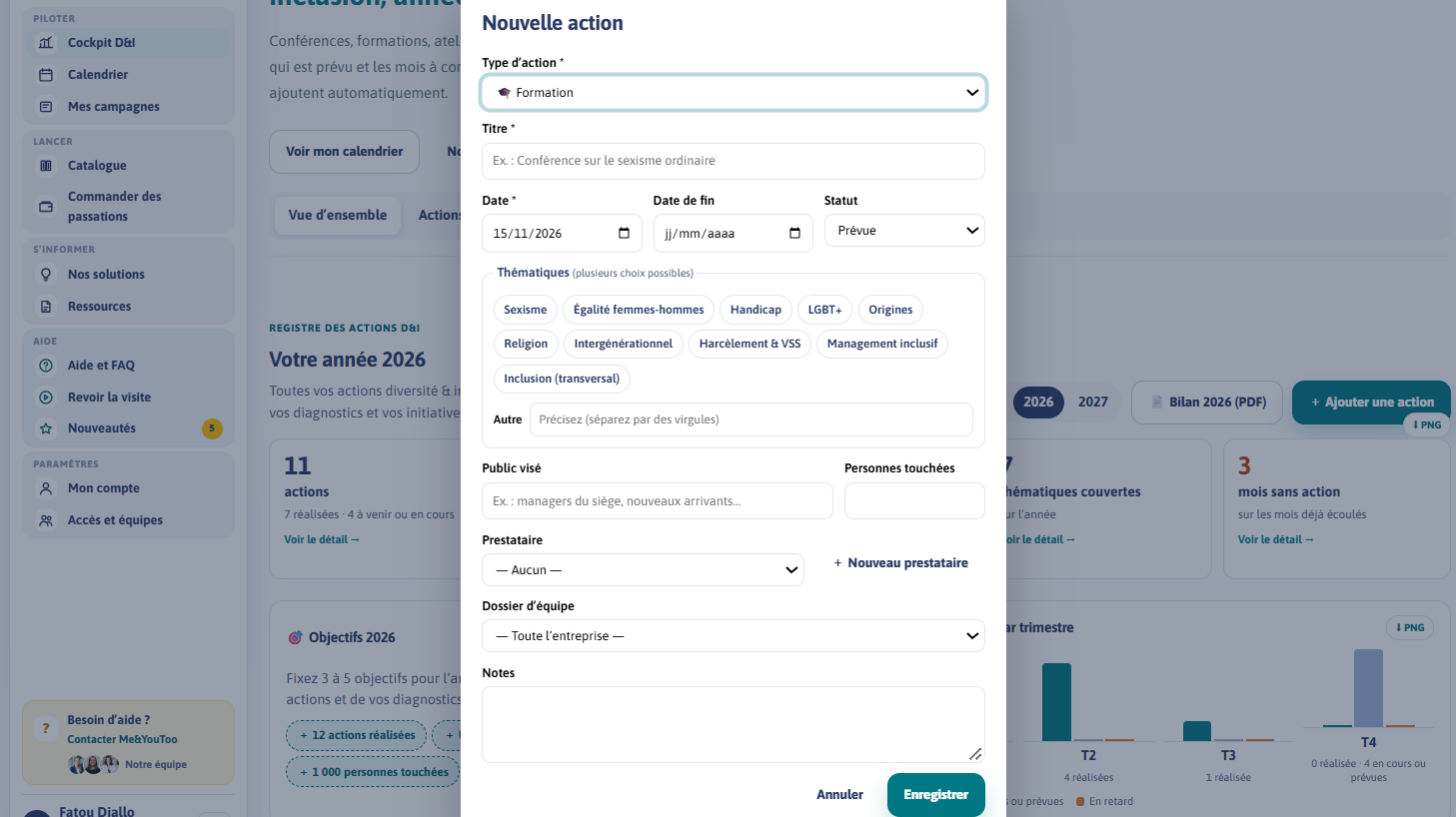
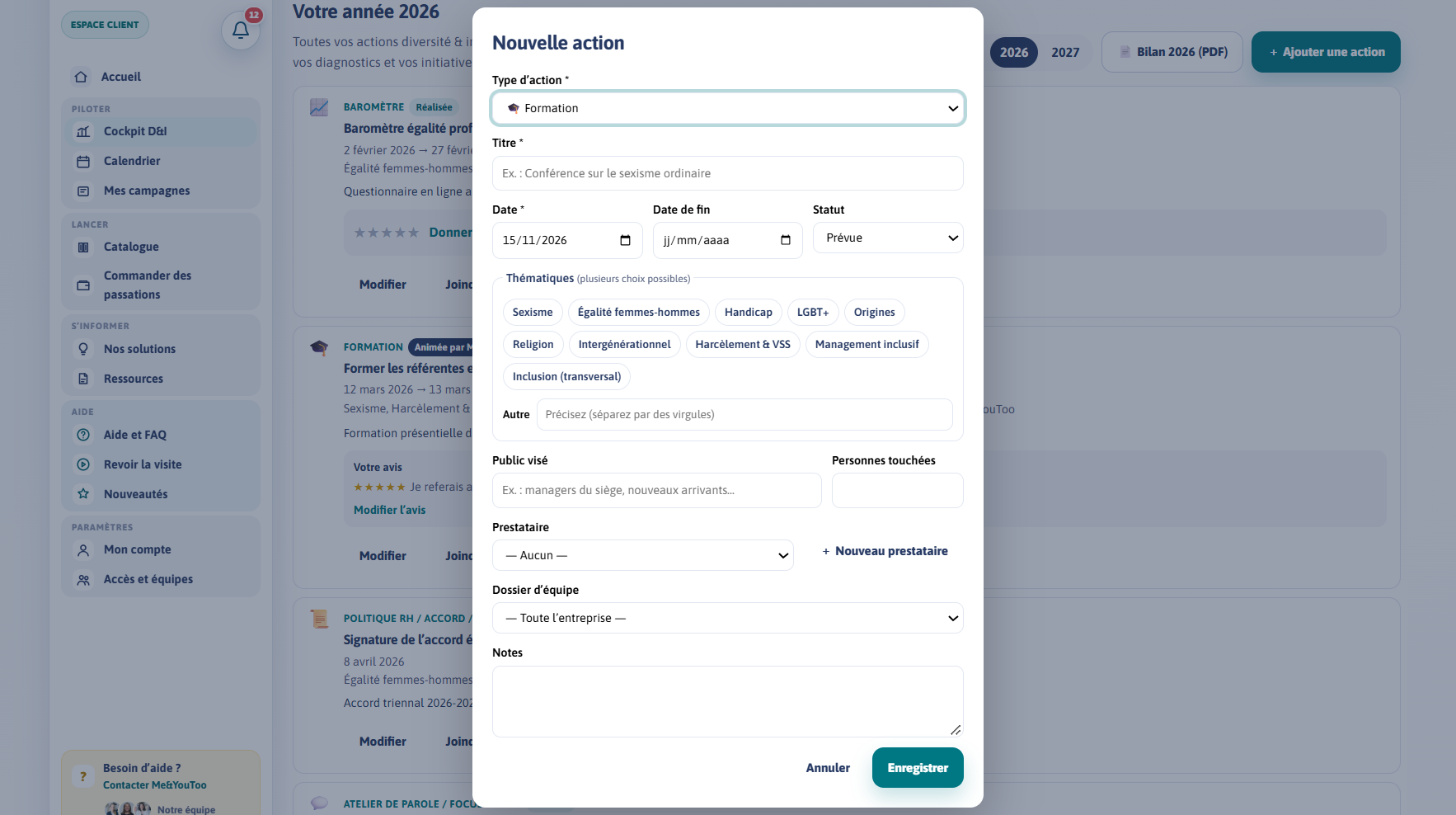
Tuto Cockpit : écrans refaits après le nouveau bandeau et la barre de boutons, cadres recalés, voix inchangée

diff --git a/tutos/cockpit/index.html b/tutos/cockpit/index.html
@@ -10,8 +10,8 @@
 <body>
 <div class="tuto" id="tuto"></div>
 <script>
-// Captures du 4 novembre 2026 : compte de démonstration Fatou Diallo, Entreprise Exemple, actions et prestataires fictifs (page entière à 88 %).
-// Les fenêtres « Nouvelle action » et « Nouvel objectif » ont été ouvertes puis annulées : rien n'a été enregistré.
+// Captures du 5 novembre 2026 (nouveau bandeau, onglets et barre de boutons ; le Bilan, écran 8, date du 4 novembre) : compte de démonstration Fatou Diallo, Entreprise Exemple, actions et prestataires fictifs (page entière à 88 %).
+// Les fenêtres « Nouvelle action », « Nouvel objectif » et « Votre avis » ont été ouvertes puis annulées : rien n'a été enregistré.
 // Cadres en % de la capture : [gauche, haut, largeur, hauteur]. Pour caler la voix : audio:'voix.mp3' et « at » (secondes) sur chaque plan.
 window.TUTO={
   eyebrow:'Tutoriel · Piloter',
@@ -20,18 +20,18 @@ window.TUTO={
   // Voix de Carole Michelon (enregistrée le 5 novembre 2026 ; bruit de fond retiré, pauses ramenées à 1,2 s) ; « at » = début de chaque phrase.
   audio:'voix.mp3?v=1',
   scenes:[
-    {at:0,img:'ecran-1.png',box:[18.4,9,49.5,30],text:'Le Cockpit D&I est le tableau de bord de votre politique diversité et inclusion : vous allez pouvoir y piloter toutes vos actions, et les archiver année après année.'},
-    {at:9.59,img:'ecran-1.png',box:[18.4,79,81.2,18],text:'Votre année en chiffres : actions menées, personnes sensibilisées, formats, thématiques couvertes et mois sans action. Tout se calcule à partir de vos actions et de vos diagnostics comportementaux.'},
-    {at:20.33,img:'ecran-4.png',box:[18.4,29.6,81.2,47.3],text:'Dans « Actions », retrouvez tout ce que vous mettez en place : baromètres, formations, accords, ateliers. Les interventions animées par Me&YouToo et vos campagnes de diagnostic s’y ajoutent automatiquement.'},
-    {at:31.11,img:'ecran-5.png',box:[31.7,0,37.4,100],text:'Ajoutez également vos propres actions en quelques clics : type, dates, thématiques, public visé, nombre de personnes touchées et prestataire. Vous pouvez ensuite y joindre vos documents.'},
-    {at:41.31,img:'ecran-2.png',box:[18.4,0.6,40.4,27.4],text:'Vous pouvez fixer par exemple trois à cinq objectifs pour l’année : la progression se calcule toute seule à partir de vos actions et de vos diagnostics.'},
-    {at:50.09,img:'ecran-6.png',box:[31.7,7.2,37.4,85.5],text:'Un objectif peut être un enjeu stratégique, avec ses thématiques et ses publics visés, ou un objectif chiffré, comme un nombre de personnes à toucher.'},
-    {at:58.11,img:'ecran-2.png',box:[59.5,0.6,40.1,27.4],text:'Le graphique compare, trimestre par trimestre, ce qui est réalisé, ce qui est en cours ou prévu, et ce qui est en retard.'},
-    {at:65.23,img:'ecran-2.png',box:[18.4,29.6,40.4,69.8],text:'Les prochaines échéances listent vos soixante prochains jours : actions, campagnes, tâches et temps forts D&I. « Préparer » crée l’action en un clic.'},
-    {at:75.61,img:'ecran-2.png',box:[59.5,29.6,40.1,32],text:'Les points d’attention vous signalent où agir : une loi à anticiper, un mois qui ne comporte aucune action, des thématiques non travaillées depuis douze mois.'},
-    {at:84.51,img:'ecran-3.png',box:[18.4,11.6,81.2,71.9],text:'La frise montre votre année d’un coup d’œil, action par action. Sur un mois vide, saisissez une action pour garder la dynamique. Chaque graphique s’exporte en image pour vos présentations.'},
-    {at:95.07,img:'ecran-7.png',box:[18.4,40.4,81.2,41],text:'Renseignez aussi vos prestataires avec « Ajouter un prestataire » : cabinets, formateurs, associations. Leurs coordonnées restent à portée de main et ils sont reliés à vos actions.'},
-    {at:104.75,img:'ecran-9.png',box:[31.3,9.8,37.7,80.1],text:'Une fois une action terminée, donnez votre avis : des étoiles, un commentaire, et si vous referiez appel à ce prestataire. Sa fiche résume vos avis, et « Prévoir un rappel » ajoute une tâche à votre calendrier pour y repenser au bon moment.'},
+    {at:0,img:'ecran-1.png?v=2',box:[18.1,3.5,81.6,25.6],text:'Le Cockpit D&I est le tableau de bord de votre politique diversité et inclusion : vous allez pouvoir y piloter toutes vos actions, et les archiver année après année.'},
+    {at:9.59,img:'ecran-1.png?v=2',box:[18.1,61.9,81.6,17.3],text:'Votre année en chiffres : actions menées, personnes sensibilisées, formats, thématiques couvertes et mois sans action. Tout se calcule à partir de vos actions et de vos diagnostics comportementaux.'},
+    {at:20.33,img:'ecran-4.png?v=2',box:[18.1,25.1,81.6,66],text:'Dans « Actions », retrouvez tout ce que vous mettez en place : baromètres, formations, accords, ateliers. Les interventions animées par Me&YouToo et vos campagnes de diagnostic s’y ajoutent automatiquement.'},
+    {at:31.11,img:'ecran-5.png?v=2',box:[32.4,0.9,35.1,98.2],text:'Ajoutez également vos propres actions en quelques clics : type, dates, thématiques, public visé, nombre de personnes touchées et prestataire. Vous pouvez ensuite y joindre vos documents.'},
+    {at:41.31,img:'ecran-2.png?v=2',box:[18.1,9.7,40.4,27.7],text:'Vous pouvez fixer par exemple trois à cinq objectifs pour l’année : la progression se calcule toute seule à partir de vos actions et de vos diagnostics.'},
+    {at:50.09,img:'ecran-6.png?v=2',box:[31.3,7.1,37.6,85.9],text:'Un objectif peut être un enjeu stratégique, avec ses thématiques et ses publics visés, ou un objectif chiffré, comme un nombre de personnes à toucher.'},
+    {at:58.11,img:'ecran-2.png?v=2',box:[59.3,9.7,40.4,27.7],text:'Le graphique compare, trimestre par trimestre, ce qui est réalisé, ce qui est en cours ou prévu, et ce qui est en retard.'},
+    {at:65.23,img:'ecran-2.png?v=2',box:[18.1,38.9,40.4,60.6],text:'Les prochaines échéances listent vos soixante prochains jours : actions, campagnes, tâches et temps forts D&I. « Préparer » crée l’action en un clic.'},
+    {at:75.61,img:'ecran-2.png?v=2',box:[59.3,38.9,40.4,33],text:'Les points d’attention vous signalent où agir : une loi à anticiper, un mois qui ne comporte aucune action, des thématiques non travaillées depuis douze mois.'},
+    {at:84.51,img:'ecran-3.png?v=2',box:[18.1,9.7,81.6,72.3],text:'La frise montre votre année d’un coup d’œil, action par action. Sur un mois vide, saisissez une action pour garder la dynamique. Chaque graphique s’exporte en image pour vos présentations.'},
+    {at:95.07,img:'ecran-7.png?v=2',box:[18.1,35,81.6,64.6],text:'Renseignez aussi vos prestataires avec « Ajouter un prestataire » : cabinets, formateurs, associations. Leurs coordonnées restent à portée de main et ils sont reliés à vos actions.'},
+    {at:104.75,img:'ecran-9.png?v=2',box:[31.3,10,37.6,80],text:'Une fois une action terminée, donnez votre avis : des étoiles, un commentaire, et si vous referiez appel à ce prestataire. Sa fiche résume vos avis, et « Prévoir un rappel » ajoute une tâche à votre calendrier pour y repenser au bon moment.'},
     {at:118.11,img:'ecran-8.png',box:[27.1,0.5,46,99],text:'À tout moment, le Bilan D&I réunit vos actions, vos chiffres, vos objectifs et vos perspectives dans un PDF prêt à partager avec la direction, le CSE ou dans le rapport RSE.'}
   ],
   end:{title:'Votre Cockpit D&I est prêt',text:'Prochaine étape : ajouter vos premières actions et fixer vos objectifs de l’année. Une question ? Le chat et l’équipe Me&YouToo sont là pour vous.'}
